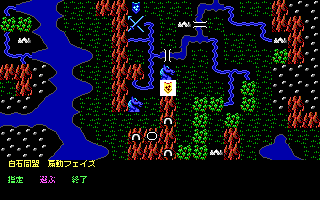
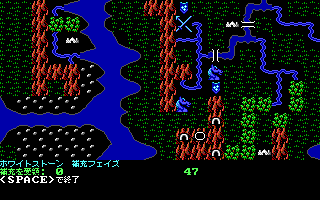
Dragonlance silver box patches v1.1: names follow the Japanese novels

diff --git a/docs/index.html b/docs/index.html
@@ -251,7 +251,7 @@ GOG.com や Steam で販売されている版を対象にしています。
       <span class="state ready">公開中</span>
       <span class="name"><a href="warofthelance/index.html">ウォー・オブ・ザ・ランス</a></span>
       <span class="orig">War of the Lance（1989年）</span>
-      <span class="desc">竜王軍と白石同盟がアンサロン大陸を奪い合う、ドラゴンランスの戦略級ウォーゲーム。Steam 版「Silver Box Classics」の英語版に対応。</span>
+      <span class="desc">ドラゴン卿の軍勢とホワイトストーンがアンサロン大陸を奪い合う、ドラゴンランスの戦略級ウォーゲーム。Steam 版「Silver Box Classics」の英語版に対応。</span>
       <span class="more"><a href="warofthelance/index.html">紹介とダウンロード</a></span>
     </div>
   </li>

diff --git a/README.md b/README.md
@@ -29,10 +29,10 @@ GOG.com や Steam で販売されている版を対象にしています。
 | ダーク・クイーン・オブ・クリン（The Dark Queen of Krynn、1992年） | 公開中 | [DarkQueenOfKrynn_JP.zip](https://github.com/higesho/dnd-ja/releases/tag/darkqueen-v1.0) |
 | ダンジョン・ハック（Forgotten Realms: Dungeon Hack、1993年） | 公開中 | [DungeonHack_JP.zip](https://github.com/higesho/dnd-ja/releases/tag/dungeonhack-v1.0) |
 | メンゾベランザン（Forgotten Realms: Menzoberranzan、1994年） | 公開中 | [Menzoberranzan_JP.zip](https://github.com/higesho/dnd-ja/releases/tag/menzoberranzan-v1.0) |
-| シャドウ・ソーサラー（Shadow Sorcerer、1991年） | 公開中 | [ShadowSorcerer_JP.zip](https://github.com/higesho/dnd-ja/releases/tag/shadowsorcerer-v1.0) |
-| ドラゴンズ・オブ・フレイム（Dragons of Flame、1989年） | 公開中 | [DragonsOfFlame_JP.zip](https://github.com/higesho/dnd-ja/releases/tag/dragonsofflame-v1.0) |
-| ヒーローズ・オブ・ザ・ランス（Heroes of the Lance、1988年） | 公開中 | [HeroesOfTheLance_JP.zip](https://github.com/higesho/dnd-ja/releases/tag/heroesofthelance-v1.0) |
-| ウォー・オブ・ザ・ランス（War of the Lance、1989年） | 公開中 | [WarOfTheLance_JP.zip](https://github.com/higesho/dnd-ja/releases/tag/warofthelance-v1.0) |
+| シャドウ・ソーサラー（Shadow Sorcerer、1991年） | 公開中 | [ShadowSorcerer_JP.zip](https://github.com/higesho/dnd-ja/releases/tag/shadowsorcerer-v1.1) |
+| ドラゴンズ・オブ・フレイム（Dragons of Flame、1989年） | 公開中 | [DragonsOfFlame_JP.zip](https://github.com/higesho/dnd-ja/releases/tag/dragonsofflame-v1.1) |
+| ヒーローズ・オブ・ザ・ランス（Heroes of the Lance、1988年） | 公開中 | [HeroesOfTheLance_JP.zip](https://github.com/higesho/dnd-ja/releases/tag/heroesofthelance-v1.1) |
+| ウォー・オブ・ザ・ランス（War of the Lance、1989年） | 公開中 | [WarOfTheLance_JP.zip](https://github.com/higesho/dnd-ja/releases/tag/warofthelance-v1.1) |
 
 入れ方と外し方は、サイトの各作品のページをご覧ください。
 どのパッチも、外せば英語に戻ります。配布物には原作のプログラムは入っていません。
